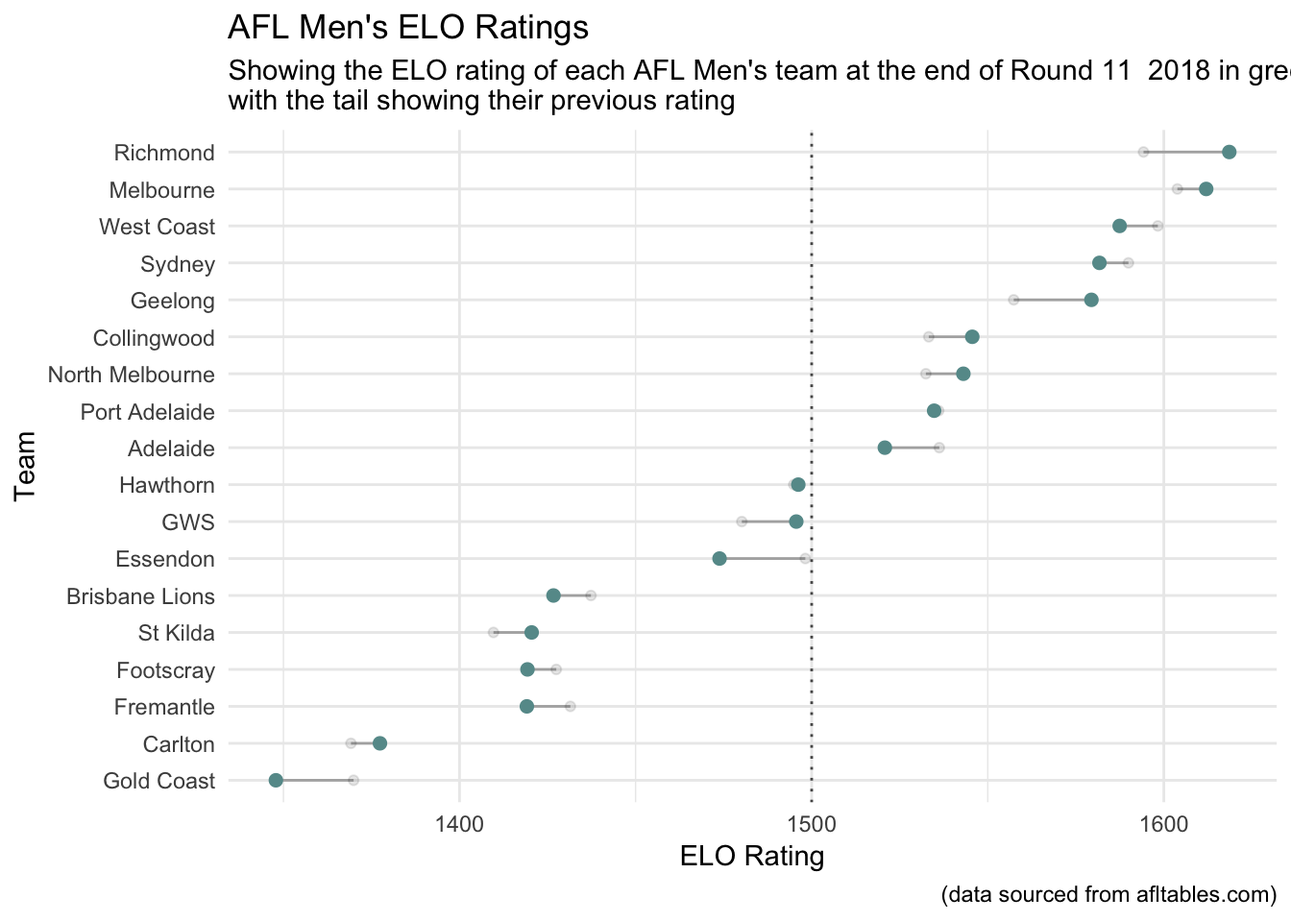
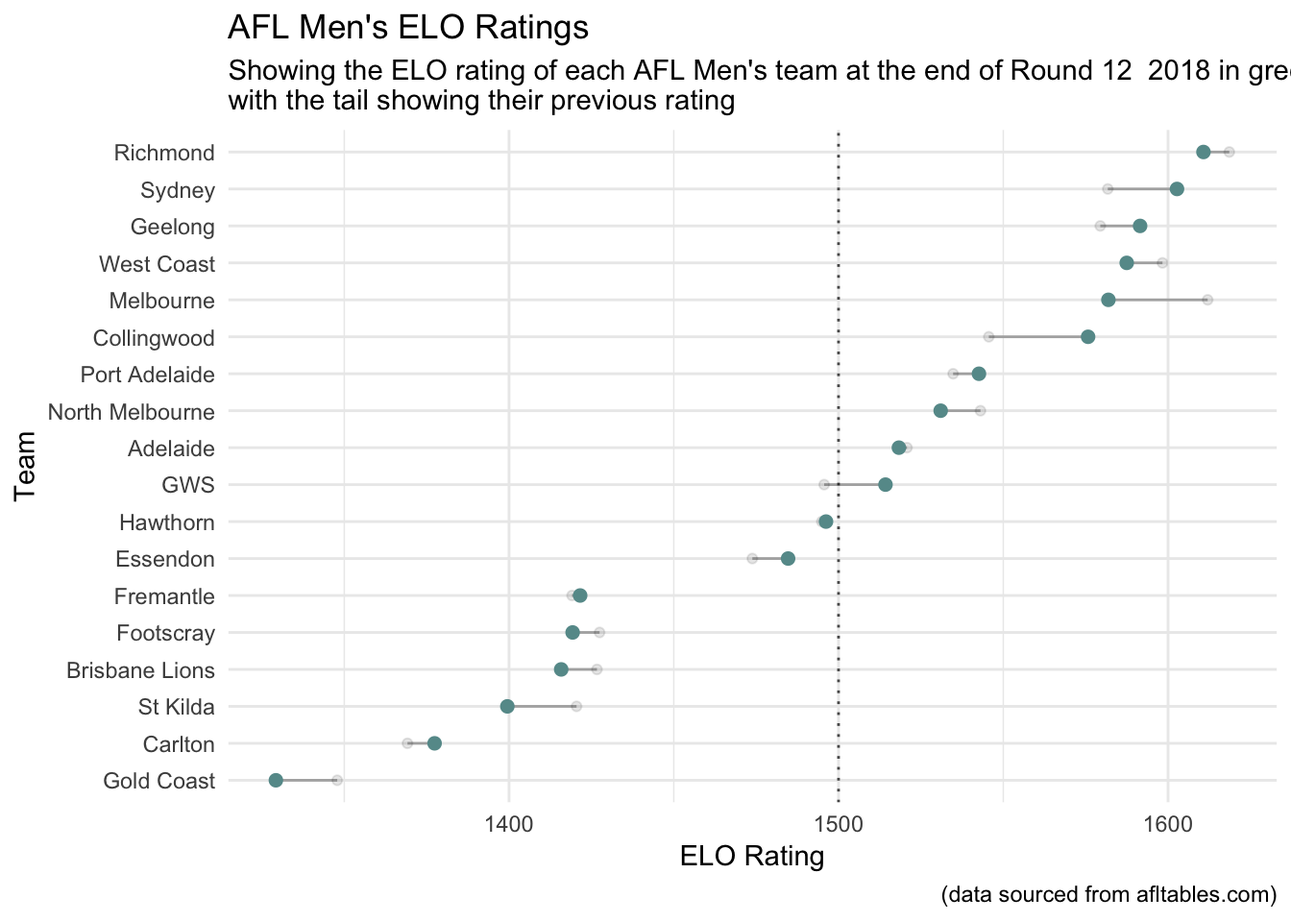
updating pages after round 12

diff --git a/static/page/aflm-ratings-and-simulations_files/figure-html/widgets/widget_formattable.html b/static/page/aflm-ratings-and-simulations_files/figure-html/widgets/widget_formattable.html
@@ -16,12 +16,12 @@
 </head>
 <body style="background-color:white;">
 <div id="htmlwidget_container">
-  <div id="htmlwidget-2a6462de6dc44ee1f3a5" style="width:95%;height:700px;" class="datatables html-widget"></div>
+  <div id="htmlwidget-047afb2bf08df8c3cec9" style="width:95%;height:700px;" class="datatables html-widget"></div>
   <script>HTMLWidgets.pymChild = new pym.Child();HTMLWidgets.addPostRenderHandler(function(){
                                 setTimeout(function(){HTMLWidgets.pymChild.sendHeight();},100);
                             });</script>
 </div>
-<script type="application/json" data-for="htmlwidget-2a6462de6dc44ee1f3a5">{"x":{"filter":"none","data":[["1","2","3","4","5","6","7","8","9","10","11","12","13","14","15","16","17","18"],["Richmond       ","West Coast     ","Melbourne      ","Sydney         ","Geelong        ","Port Adelaide  ","Collingwood    ","North Melbourne","Hawthorn       ","Adelaide       ","GWS            ","Essendon       ","Fremantle      ","Footscray      ","St Kilda       ","Brisbane Lions ","Gold Coast     ","Carlton        "],["<span style=\"display: inline-block; direction: rtl; border-radius: 4px; padding-right: 2px; background-color: rgba(32, 178, 170, 0.5); width: 100.00%\">1618<\/span>","<span style=\"display: inline-block; direction: rtl; border-radius: 4px; padding-right: 2px; background-color: rgba(32, 178, 170, 0.5); width: 88.56%\">1587<\/span> ","<span style=\"display: inline-block; direction: rtl; border-radius: 4px; padding-right: 2px; background-color: rgba(32, 178, 170, 0.5); width: 97.79%\">1612<\/span> ","<span style=\"display: inline-block; direction: rtl; border-radius: 4px; padding-right: 2px; background-color: rgba(32, 178, 170, 0.5); width: 86.35%\">1581<\/span> ","<span style=\"display: inline-block; direction: rtl; border-radius: 4px; padding-right: 2px; background-color: rgba(32, 178, 170, 0.5); width: 85.61%\">1579<\/span> ","<span style=\"display: inline-block; direction: rtl; border-radius: 4px; padding-right: 2px; background-color: rgba(32, 178, 170, 0.5); width: 69.00%\">1534<\/span> ","<span style=\"display: inline-block; direction: rtl; border-radius: 4px; padding-right: 2px; background-color: rgba(32, 178, 170, 0.5); width: 73.06%\">1545<\/span> ","<span style=\"display: inline-block; direction: rtl; border-radius: 4px; padding-right: 2px; background-color: rgba(32, 178, 170, 0.5); width: 72.32%\">1543<\/span> ","<span style=\"display: inline-block; direction: rtl; border-radius: 4px; padding-right: 2px; background-color: rgba(32, 178, 170, 0.5); width: 54.98%\">1496<\/span> ","<span style=\"display: inline-block; direction: rtl; border-radius: 4px; padding-right: 2px; background-color: rgba(32, 178, 170, 0.5); width: 63.84%\">1520<\/span> ","<span style=\"display: inline-block; direction: rtl; border-radius: 4px; padding-right: 2px; background-color: rgba(32, 178, 170, 0.5); width: 54.61%\">1495<\/span> ","<span style=\"display: inline-block; direction: rtl; border-radius: 4px; padding-right: 2px; background-color: rgba(32, 178, 170, 0.5); width: 46.49%\">1473<\/span> ","<span style=\"display: inline-block; direction: rtl; border-radius: 4px; padding-right: 2px; background-color: rgba(32, 178, 170, 0.5); width: 26.57%\">1419<\/span> ","<span style=\"display: inline-block; direction: rtl; border-radius: 4px; padding-right: 2px; background-color: rgba(32, 178, 170, 0.5); width: 26.57%\">1419<\/span> ","<span style=\"display: inline-block; direction: rtl; border-radius: 4px; padding-right: 2px; background-color: rgba(32, 178, 170, 0.5); width: 26.94%\">1420<\/span> ","<span style=\"display: inline-block; direction: rtl; border-radius: 4px; padding-right: 2px; background-color: rgba(32, 178, 170, 0.5); width: 29.15%\">1426<\/span> ","<span style=\"display: inline-block; direction: rtl; border-radius: 4px; padding-right: 2px; background-color: rgba(32, 178, 170, 0.5); width: 0.00%\">1347<\/span>  ","<span style=\"display: inline-block; direction: rtl; border-radius: 4px; padding-right: 2px; background-color: rgba(32, 178, 170, 0.5); width: 11.07%\">1377<\/span> "],["<span style=\"color: green\">24<\/span>","<span style=\"color: red\">-10<\/span> ","<span style=\"color: green\">8<\/span> ","<span style=\"color: red\">-8<\/span>  ","<span style=\"color: green\">22<\/span>","<span style=\"color: red\">-1<\/span>  ","<span style=\"color: green\">12<\/span>","<span style=\"color: green\">10<\/span>","<span style=\"color: green\">1<\/span> ","<span style=\"color: red\">-15<\/span> ","<span style=\"color: green\">15<\/span>","<span style=\"color: red\">-24<\/span> ","<span style=\"color: red\">-12<\/span> ","<span style=\"color: red\">-8<\/span>  ","<span style=\"color: green\">10<\/span>","<span style=\"color: red\">-10<\/span> ","<span style=\"color: red\">-22<\/span> ","<span style=\"color: green\">8<\/span> "],["18.5","17.7","16.5","15.3","14.3","14.1","13.8","13.2","12.6","10.7","10.6","8.3","7.4","5.8","5.4","4.9","4.7","4.2"],["<span style=\"display: block; padding: 0 4px; border-radius: 4px; background-color: #add8e6\">98.0%<\/span>","<span style=\"display: block; padding: 0 4px; border-radius: 4px; background-color: #add8e6\">98.6%<\/span>","<span style=\"display: block; padding: 0 4px; border-radius: 4px; background-color: #aed8e6\">96.2%<\/span>","<span style=\"display: block; padding: 0 4px; border-radius: 4px; background-color: #b5dce8\">87.9%<\/span>","<span style=\"display: block; padding: 0 4px; border-radius: 4px; background-color: #badee9\">82.9%<\/span>","<span style=\"display: block; padding: 0 4px; border-radius: 4px; background-color: #c0e1ec\">74.6%<\/span>","<span style=\"display: block; padding: 0 4px; border-radius: 4px; background-color: #bfe0eb\">76.7%<\/span>","<span style=\"display: block; padding: 0 4px; border-radius: 4px; background-color: #c8e4ee\">65.8%<\/span>","<span style=\"display: block; padding: 0 4px; border-radius: 4px; background-color: #d1e9f1\">55.0%<\/span>","<span style=\"display: block; padding: 0 4px; border-radius: 4px; background-color: #e3f2f6\">32.7%<\/span>","<span style=\"display: block; padding: 0 4px; border-radius: 4px; background-color: #ecf6f9\">22.2%<\/span>","<span style=\"display: block; padding: 0 4px; border-radius: 4px; background-color: #f9fcfd\">6.2%<\/span> ","<span style=\"display: block; padding: 0 4px; border-radius: 4px; background-color: #fdfefe\">1.6%<\/span> ","<span style=\"display: block; padding: 0 4px; border-radius: 4px; background-color: #fefefe\">0.4%<\/span> ","<span style=\"display: block; padding: 0 4px; border-radius: 4px; background-color: #fefefe\">0.4%<\/span> ","<span style=\"display: block; padding: 0 4px; border-radius: 4px; background-color: #fefefe\">0.2%<\/span> ","<span style=\"display: block; padding: 0 4px; border-radius: 4px; background-color: #ffffff\">0.0%<\/span> ","<span style=\"display: block; padding: 0 4px; border-radius: 4px; background-color: #fefefe\">0.5%<\/span> "],["<span style=\"display: block; padding: 0 4px; border-radius: 4px; background-color: #add8e6\">84.8%<\/span>","<span style=\"display: block; padding: 0 4px; border-radius: 4px; background-color: #b0d9e7\">80.9%<\/span>","<span style=\"display: block; padding: 0 4px; border-radius: 4px; background-color: #bddfeb\">67.7%<\/span>","<span style=\"display: block; padding: 0 4px; border-radius: 4px; background-color: #cfe8f0\">49.1%<\/span>","<span style=\"display: block; padding: 0 4px; border-radius: 4px; background-color: #ddeef4\">35.0%<\/span>","<span style=\"display: block; padding: 0 4px; border-radius: 4px; background-color: #e3f1f6\">28.7%<\/span>","<span style=\"display: block; padding: 0 4px; border-radius: 4px; background-color: #e9f4f8\">22.1%<\/span>","<span style=\"display: block; padding: 0 4px; border-radius: 4px; background-color: #ecf6f9\">19.4%<\/span>","<span style=\"display: block; padding: 0 4px; border-radius: 4px; background-color: #f7fbfc\">7.8%<\/span> ","<span style=\"display: block; padding: 0 4px; border-radius: 4px; background-color: #fbfdfe\">3.2%<\/span> ","<span style=\"display: block; padding: 0 4px; border-radius: 4px; background-color: #fdfefe\">1.3%<\/span> ","<span style=\"display: block; padding: 0 4px; border-radius: 4px; background-color: #fefefe\">0.1%<\/span> ","<span style=\"display: block; padding: 0 4px; border-radius: 4px; background-color: #fefefe\">0.0%<\/span> ","<span style=\"display: block; padding: 0 4px; border-radius: 4px; background-color: #ffffff\">0.0%<\/span> ","<span style=\"display: block; padding: 0 4px; border-radius: 4px; background-color: #ffffff\">0.0%<\/span> ","<span style=\"display: block; padding: 0 4px; border-radius: 4px; background-color: #ffffff\">0.0%<\/span> ","<span style=\"display: block; padding: 0 4px; border-radius: 4px; background-color: #ffffff\">0.0%<\/span> ","<span style=\"display: block; padding: 0 4px; border-radius: 4px; background-color: #ffffff\">0.0%<\/span> "],["<span style=\"display: block; padding: 0 4px; border-radius: 4px; background-color: #add8e6\">48.4%<\/span>","<span style=\"display: block; padding: 0 4px; border-radius: 4px; background-color: #daedf3\">21.5%<\/span>","<span style=\"display: block; padding: 0 4px; border-radius: 4px; background-color: #d8ecf3\">23.0%<\/span>","<span style=\"display: block; padding: 0 4px; border-radius: 4px; background-color: #f8fcfd\">3.7%<\/span> ","<span style=\"display: block; padding: 0 4px; border-radius: 4px; background-color: #fbfdfd\">2.3%<\/span> ","<span style=\"display: block; padding: 0 4px; border-radius: 4px; background-color: #fefefe\">0.5%<\/span> ","<span style=\"display: block; padding: 0 4px; border-radius: 4px; background-color: #fdfefe\">0.7%<\/span> ","<span style=\"display: block; padding: 0 4px; border-radius: 4px; background-color: #fefefe\">0.1%<\/span> ","<span style=\"display: block; padding: 0 4px; border-radius: 4px; background-color: #ffffff\">0.0%<\/span> ","<span style=\"display: block; padding: 0 4px; border-radius: 4px; background-color: #ffffff\">0.0%<\/span> ","<span style=\"display: block; padding: 0 4px; border-radius: 4px; background-color: #ffffff\">0.0%<\/span> ","<span style=\"display: block; padding: 0 4px; border-radius: 4px; background-color: #ffffff\">0.0%<\/span> ","<span style=\"display: block; padding: 0 4px; border-radius: 4px; background-color: #ffffff\">0.0%<\/span> ","<span style=\"display: block; padding: 0 4px; border-radius: 4px; background-color: #ffffff\">0.0%<\/span> ","<span style=\"display: block; padding: 0 4px; border-radius: 4px; background-color: #ffffff\">0.0%<\/span> ","<span style=\"display: block; padding: 0 4px; border-radius: 4px; background-color: #ffffff\">0.0%<\/span> ","<span style=\"display: block; padding: 0 4px; border-radius: 4px; background-color: #ffffff\">0.0%<\/span> ","<span style=\"display: block; padding: 0 4px; border-radius: 4px; background-color: #ffffff\">0.0%<\/span> "]],"container":"<table class=\"display\">\n  <thead>\n    <tr>\n      <th> <\/th>\n      <th>Team<\/th>\n      <th>ELO<\/th>\n      <th>ELO.change<\/th>\n      <th>Wins<\/th>\n      <th>Top.8<\/th>\n      <th>Top.4<\/th>\n      <th>Top.1<\/th>\n    <\/tr>\n  <\/thead>\n<\/table>","options":{"dom":"t","pageLength":18,"order":[],"autoWidth":false,"orderClasses":false,"columnDefs":[{"orderable":false,"targets":0}],"lengthMenu":[10,18,25,50,100]}},"evals":[],"jsHooks":[]}</script>
-<script type="application/htmlwidget-sizing" data-for="htmlwidget-2a6462de6dc44ee1f3a5">{"viewer":{"width":"95%","height":700,"padding":0,"fill":false},"browser":{"width":"95%","height":700,"padding":0,"fill":false}}</script>
+<script type="application/json" data-for="htmlwidget-047afb2bf08df8c3cec9">{"x":{"filter":"none","data":[["1","2","3","4","5","6","7","8","9","10","11","12","13","14","15","16","17","18"],["West Coast     ","Richmond       ","Sydney         ","Collingwood    ","Geelong        ","Port Adelaide  ","Melbourne      ","Hawthorn       ","North Melbourne","GWS            ","Adelaide       ","Essendon       ","Fremantle      ","Footscray      ","St Kilda       ","Carlton        ","Gold Coast     ","Brisbane Lions "],["<span style=\"display: inline-block; direction: rtl; border-radius: 4px; padding-right: 2px; background-color: rgba(32, 178, 170, 0.5); width: 91.81%\">1587<\/span> ","<span style=\"display: inline-block; direction: rtl; border-radius: 4px; padding-right: 2px; background-color: rgba(32, 178, 170, 0.5); width: 100.00%\">1610<\/span>","<span style=\"display: inline-block; direction: rtl; border-radius: 4px; padding-right: 2px; background-color: rgba(32, 178, 170, 0.5); width: 97.15%\">1602<\/span> ","<span style=\"display: inline-block; direction: rtl; border-radius: 4px; padding-right: 2px; background-color: rgba(32, 178, 170, 0.5); width: 87.54%\">1575<\/span> ","<span style=\"display: inline-block; direction: rtl; border-radius: 4px; padding-right: 2px; background-color: rgba(32, 178, 170, 0.5); width: 93.24%\">1591<\/span> ","<span style=\"display: inline-block; direction: rtl; border-radius: 4px; padding-right: 2px; background-color: rgba(32, 178, 170, 0.5); width: 75.80%\">1542<\/span> ","<span style=\"display: inline-block; direction: rtl; border-radius: 4px; padding-right: 2px; background-color: rgba(32, 178, 170, 0.5); width: 89.68%\">1581<\/span> ","<span style=\"display: inline-block; direction: rtl; border-radius: 4px; padding-right: 2px; background-color: rgba(32, 178, 170, 0.5); width: 59.43%\">1496<\/span> ","<span style=\"display: inline-block; direction: rtl; border-radius: 4px; padding-right: 2px; background-color: rgba(32, 178, 170, 0.5); width: 71.53%\">1530<\/span> ","<span style=\"display: inline-block; direction: rtl; border-radius: 4px; padding-right: 2px; background-color: rgba(32, 178, 170, 0.5); width: 65.84%\">1514<\/span> ","<span style=\"display: inline-block; direction: rtl; border-radius: 4px; padding-right: 2px; background-color: rgba(32, 178, 170, 0.5); width: 67.26%\">1518<\/span> ","<span style=\"display: inline-block; direction: rtl; border-radius: 4px; padding-right: 2px; background-color: rgba(32, 178, 170, 0.5); width: 55.16%\">1484<\/span> ","<span style=\"display: inline-block; direction: rtl; border-radius: 4px; padding-right: 2px; background-color: rgba(32, 178, 170, 0.5); width: 32.74%\">1421<\/span> ","<span style=\"display: inline-block; direction: rtl; border-radius: 4px; padding-right: 2px; background-color: rgba(32, 178, 170, 0.5); width: 32.03%\">1419<\/span> ","<span style=\"display: inline-block; direction: rtl; border-radius: 4px; padding-right: 2px; background-color: rgba(32, 178, 170, 0.5); width: 24.91%\">1399<\/span> ","<span style=\"display: inline-block; direction: rtl; border-radius: 4px; padding-right: 2px; background-color: rgba(32, 178, 170, 0.5); width: 17.08%\">1377<\/span> ","<span style=\"display: inline-block; direction: rtl; border-radius: 4px; padding-right: 2px; background-color: rgba(32, 178, 170, 0.5); width: 0.00%\">1329<\/span>  ","<span style=\"display: inline-block; direction: rtl; border-radius: 4px; padding-right: 2px; background-color: rgba(32, 178, 170, 0.5); width: 30.60%\">1415<\/span> "],["<span style=\"color: red\">-10<\/span> ","<span style=\"color: red\">-7<\/span>  ","<span style=\"color: green\">21<\/span>","<span style=\"color: green\">30<\/span>","<span style=\"color: green\">12<\/span>","<span style=\"color: green\">7<\/span> ","<span style=\"color: red\">-30<\/span> ","<span style=\"color: green\">1<\/span> ","<span style=\"color: red\">-12<\/span> ","<span style=\"color: green\">18<\/span>","<span style=\"color: red\">-2<\/span>  ","<span style=\"color: green\">10<\/span>","<span style=\"color: green\">2<\/span> ","<span style=\"color: red\">-8<\/span>  ","<span style=\"color: red\">-21<\/span> ","<span style=\"color: green\">8<\/span> ","<span style=\"color: red\">-18<\/span> ","<span style=\"color: red\">-10<\/span> "],["17.6","17.6","16.0","15.3","15.0","14.9","14.7","12.5","12.4","11.1","10.0","9.1","8.1","5.9","4.7","4.5","4.5","4.0"],["<span style=\"display: block; padding: 0 4px; border-radius: 4px; background-color: #add8e6\">98.2%<\/span>","<span style=\"display: block; padding: 0 4px; border-radius: 4px; background-color: #aed8e6\">96.8%<\/span>","<span style=\"display: block; padding: 0 4px; border-radius: 4px; background-color: #b2dae7\">92.1%<\/span>","<span style=\"display: block; padding: 0 4px; border-radius: 4px; background-color: #b2dae7\">92.2%<\/span>","<span style=\"display: block; padding: 0 4px; border-radius: 4px; background-color: #b2dae7\">91.0%<\/span>","<span style=\"display: block; padding: 0 4px; border-radius: 4px; background-color: #b9dde9\">83.1%<\/span>","<span style=\"display: block; padding: 0 4px; border-radius: 4px; background-color: #b6dce8\">87.4%<\/span>","<span style=\"display: block; padding: 0 4px; border-radius: 4px; background-color: #d4eaf1\">51.3%<\/span>","<span style=\"display: block; padding: 0 4px; border-radius: 4px; background-color: #d3eaf1\">51.5%<\/span>","<span style=\"display: block; padding: 0 4px; border-radius: 4px; background-color: #e7f4f7\">27.7%<\/span>","<span style=\"display: block; padding: 0 4px; border-radius: 4px; background-color: #edf6f9\">20.5%<\/span>","<span style=\"display: block; padding: 0 4px; border-radius: 4px; background-color: #fafcfd\">5.9%<\/span> ","<span style=\"display: block; padding: 0 4px; border-radius: 4px; background-color: #fdfefe\">1.3%<\/span> ","<span style=\"display: block; padding: 0 4px; border-radius: 4px; background-color: #fefefe\">0.5%<\/span> ","<span style=\"display: block; padding: 0 4px; border-radius: 4px; background-color: #fefefe\">0.1%<\/span> ","<span style=\"display: block; padding: 0 4px; border-radius: 4px; background-color: #fefefe\">0.3%<\/span> ","<span style=\"display: block; padding: 0 4px; border-radius: 4px; background-color: #ffffff\">0.0%<\/span> ","<span style=\"display: block; padding: 0 4px; border-radius: 4px; background-color: #fefefe\">0.0%<\/span> "],["<span style=\"display: block; padding: 0 4px; border-radius: 4px; background-color: #add8e6\">79.6%<\/span>","<span style=\"display: block; padding: 0 4px; border-radius: 4px; background-color: #aed8e6\">78.5%<\/span>","<span style=\"display: block; padding: 0 4px; border-radius: 4px; background-color: #c0e1ec\">60.4%<\/span>","<span style=\"display: block; padding: 0 4px; border-radius: 4px; background-color: #cde7ef\">47.8%<\/span>","<span style=\"display: block; padding: 0 4px; border-radius: 4px; background-color: #d1e9f1\">44.0%<\/span>","<span style=\"display: block; padding: 0 4px; border-radius: 4px; background-color: #d8ecf3\">37.5%<\/span>","<span style=\"display: block; padding: 0 4px; border-radius: 4px; background-color: #d8ecf3\">37.5%<\/span>","<span style=\"display: block; padding: 0 4px; border-radius: 4px; background-color: #f9fcfd\">5.7%<\/span> ","<span style=\"display: block; padding: 0 4px; border-radius: 4px; background-color: #f7fbfc\">7.1%<\/span> ","<span style=\"display: block; padding: 0 4px; border-radius: 4px; background-color: #fdfefe\">1.5%<\/span> ","<span style=\"display: block; padding: 0 4px; border-radius: 4px; background-color: #fefefe\">0.4%<\/span> ","<span style=\"display: block; padding: 0 4px; border-radius: 4px; background-color: #fefefe\">0.1%<\/span> ","<span style=\"display: block; padding: 0 4px; border-radius: 4px; background-color: #fefefe\">0.0%<\/span> ","<span style=\"display: block; padding: 0 4px; border-radius: 4px; background-color: #ffffff\">0.0%<\/span> ","<span style=\"display: block; padding: 0 4px; border-radius: 4px; background-color: #ffffff\">0.0%<\/span> ","<span style=\"display: block; padding: 0 4px; border-radius: 4px; background-color: #ffffff\">0.0%<\/span> ","<span style=\"display: block; padding: 0 4px; border-radius: 4px; background-color: #ffffff\">0.0%<\/span> ","<span style=\"display: block; padding: 0 4px; border-radius: 4px; background-color: #ffffff\">0.0%<\/span> "],["<span style=\"display: block; padding: 0 4px; border-radius: 4px; background-color: #c1e1ec\">29.3%<\/span>","<span style=\"display: block; padding: 0 4px; border-radius: 4px; background-color: #add8e6\">39.3%<\/span>","<span style=\"display: block; padding: 0 4px; border-radius: 4px; background-color: #e7f3f7\">11.4%<\/span>","<span style=\"display: block; padding: 0 4px; border-radius: 4px; background-color: #f9fcfd\">2.4%<\/span> ","<span style=\"display: block; padding: 0 4px; border-radius: 4px; background-color: #f2f9fb\">5.9%<\/span> ","<span style=\"display: block; padding: 0 4px; border-radius: 4px; background-color: #fdfefe\">0.9%<\/span> ","<span style=\"display: block; padding: 0 4px; border-radius: 4px; background-color: #e8f4f8\">10.8%<\/span>","<span style=\"display: block; padding: 0 4px; border-radius: 4px; background-color: #fefefe\">0.0%<\/span> ","<span style=\"display: block; padding: 0 4px; border-radius: 4px; background-color: #ffffff\">0.0%<\/span> ","<span style=\"display: block; padding: 0 4px; border-radius: 4px; background-color: #ffffff\">0.0%<\/span> ","<span style=\"display: block; padding: 0 4px; border-radius: 4px; background-color: #ffffff\">0.0%<\/span> ","<span style=\"display: block; padding: 0 4px; border-radius: 4px; background-color: #ffffff\">0.0%<\/span> ","<span style=\"display: block; padding: 0 4px; border-radius: 4px; background-color: #ffffff\">0.0%<\/span> ","<span style=\"display: block; padding: 0 4px; border-radius: 4px; background-color: #ffffff\">0.0%<\/span> ","<span style=\"display: block; padding: 0 4px; border-radius: 4px; background-color: #ffffff\">0.0%<\/span> ","<span style=\"display: block; padding: 0 4px; border-radius: 4px; background-color: #ffffff\">0.0%<\/span> ","<span style=\"display: block; padding: 0 4px; border-radius: 4px; background-color: #ffffff\">0.0%<\/span> ","<span style=\"display: block; padding: 0 4px; border-radius: 4px; background-color: #ffffff\">0.0%<\/span> "]],"container":"<table class=\"display\">\n  <thead>\n    <tr>\n      <th> <\/th>\n      <th>Team<\/th>\n      <th>ELO<\/th>\n      <th>ELO.change<\/th>\n      <th>Wins<\/th>\n      <th>Top.8<\/th>\n      <th>Top.4<\/th>\n      <th>Top.1<\/th>\n    <\/tr>\n  <\/thead>\n<\/table>","options":{"dom":"t","pageLength":18,"order":[],"autoWidth":false,"orderClasses":false,"columnDefs":[{"orderable":false,"targets":0}],"lengthMenu":[10,18,25,50,100]}},"evals":[],"jsHooks":[]}</script>
+<script type="application/htmlwidget-sizing" data-for="htmlwidget-047afb2bf08df8c3cec9">{"viewer":{"width":"95%","height":700,"padding":0,"fill":false},"browser":{"width":"95%","height":700,"padding":0,"fill":false}}</script>
 </body>
 </html>

diff --git a/content/page/aflm-current-tips.html b/content/page/aflm-current-tips.html
@@ -41,108 +41,62 @@ Result
 <tbody>
 <tr>
 <td style="text-align:right;">
-Fri, 08
+Thu, 14
 </td>
 <td style="text-align:right;">
 Adelaide Oval
 </td>
 <td style="text-align:right;">
-<span>Port Adelaide </span>
+<span style="font-weight: bold">Port Adelaide</span>
 </td>
 <td style="text-align:right;">
-<span style="font-weight: bold">Richmond </span>
+<span>Footscray </span>
 </td>
 <td style="text-align:right;">
--5
+35
 </td>
 <td style="text-align:right;">
-45.9%
+73.7%
 </td>
 <td style="text-align:right;">
-Richmond by 5
-</td>
-</tr>
-<tr>
-<td style="text-align:right;">
-Sat, 09
-</td>
-<td style="text-align:right;">
-Kardinia Park
-</td>
-<td style="text-align:right;">
-<span style="font-weight: bold">Geelong </span>
-</td>
-<td style="text-align:right;">
-<span>North Melbourne</span>
-</td>
-<td style="text-align:right;">
-12
-</td>
-<td style="text-align:right;">
-58.6%
-</td>
-<td style="text-align:right;">
-Geelong by 12
+Port Adelaide by 35
 </td>
 </tr>
 <tr>
 <td style="text-align:right;">
-Sat, 09
+Fri, 15
 </td>
 <td style="text-align:right;">
-Blacktown
-</td>
-<td style="text-align:right;">
-<span style="font-weight: bold">GWS </span>
-</td>
-<td style="text-align:right;">
-<span>Gold Coast </span>
-</td>
-<td style="text-align:right;">
-39
-</td>
-<td style="text-align:right;">
-76.0%
-</td>
-<td style="text-align:right;">
-GWS by 39
-</td>
-</tr>
-<tr>
-<td style="text-align:right;">
-Sat, 09
-</td>
-<td style="text-align:right;">
-Docklands
-</td>
-<td style="text-align:right;">
-<span>St Kilda </span>
+S.C.G.
 </td>
 <td style="text-align:right;">
 <span style="font-weight: bold">Sydney </span>
 </td>
 <td style="text-align:right;">
--20
+<span>West Coast</span>
 </td>
 <td style="text-align:right;">
-35.2%
+14
 </td>
 <td style="text-align:right;">
-Sydney by 20
+60.3%
+</td>
+<td style="text-align:right;">
+Sydney by 14
 </td>
 </tr>
 <tr>
 <td style="text-align:right;">
-Sun, 10
+Sat, 16
 </td>
 <td style="text-align:right;">
-Gabba
+Docklands
 </td>
 <td style="text-align:right;">
-<span style="font-weight: bold">Brisbane Lions</span>
+<span style="font-weight: bold">Carlton </span>
 </td>
 <td style="text-align:right;">
-<span>Essendon </span>
+<span>Fremantle </span>
 </td>
 <td style="text-align:right;">
 2
@@ -151,53 +105,76 @@ Gabba
 51.4%
 </td>
 <td style="text-align:right;">
-Brisbane Lions by 2
+Carlton by 2
 </td>
 </tr>
 <tr>
 <td style="text-align:right;">
-Sun, 10
+Sat, 16
 </td>
 <td style="text-align:right;">
-Perth Stadium
+Carrara
 </td>
 <td style="text-align:right;">
-<span>Fremantle </span>
+<span>Gold Coast </span>
 </td>
 <td style="text-align:right;">
-<span style="font-weight: bold">Adelaide </span>
+<span style="font-weight: bold">St Kilda </span>
 </td>
 <td style="text-align:right;">
--8
+-2
 </td>
 <td style="text-align:right;">
-43.4%
+48.0%
 </td>
 <td style="text-align:right;">
-Adelaide by 8
+St Kilda by 2
 </td>
 </tr>
 <tr>
 <td style="text-align:right;">
-Mon, 11
+Sat, 16
 </td>
 <td style="text-align:right;">
 M.C.G.
 </td>
 <td style="text-align:right;">
-<span style="font-weight: bold">Melbourne </span>
+<span style="font-weight: bold">Hawthorn </span>
 </td>
 <td style="text-align:right;">
-<span>Collingwood </span>
+<span>Adelaide </span>
 </td>
 <td style="text-align:right;">
-17
+7
 </td>
 <td style="text-align:right;">
-62.2%
+54.6%
 </td>
 <td style="text-align:right;">
-Melbourne by 17
+Hawthorn by 7
+</td>
+</tr>
+<tr>
+<td style="text-align:right;">
+Sun, 17
+</td>
+<td style="text-align:right;">
+M.C.G.
+</td>
+<td style="text-align:right;">
+<span>Geelong </span>
+</td>
+<td style="text-align:right;">
+<span style="font-weight: bold">Richmond </span>
+</td>
+<td style="text-align:right;">
+0
+</td>
+<td style="text-align:right;">
+49.9%
+</td>
+<td style="text-align:right;">
+Richmond by 0
 </td>
 </tr>
 </tbody>

diff --git a/content/page/aflm-ratings-and-simulations.html b/content/page/aflm-ratings-and-simulations.html
@@ -15,7 +15,7 @@ tags: []
 
 
 <p>Welcome to our all new AFL Men’s ratings and tips page! Here you will the latest ratings, tips for the upcoming rounds and any simulations that have been done. I’ll usually aim to update these early in the week to give you time to digest Any questions, let me know on Twitter!</p>
-<p>Last updated: 2018-06-04.</p>
+<p>Last updated: 2018-06-12.</p>
 <div id="summary" class="section level2">
 <h2>Summary</h2>
 <p>Below are the updated AFL Men’s ratings and simulations. These are based off our ELO model (insert explainer) and simulations (insert explainer).</p>
